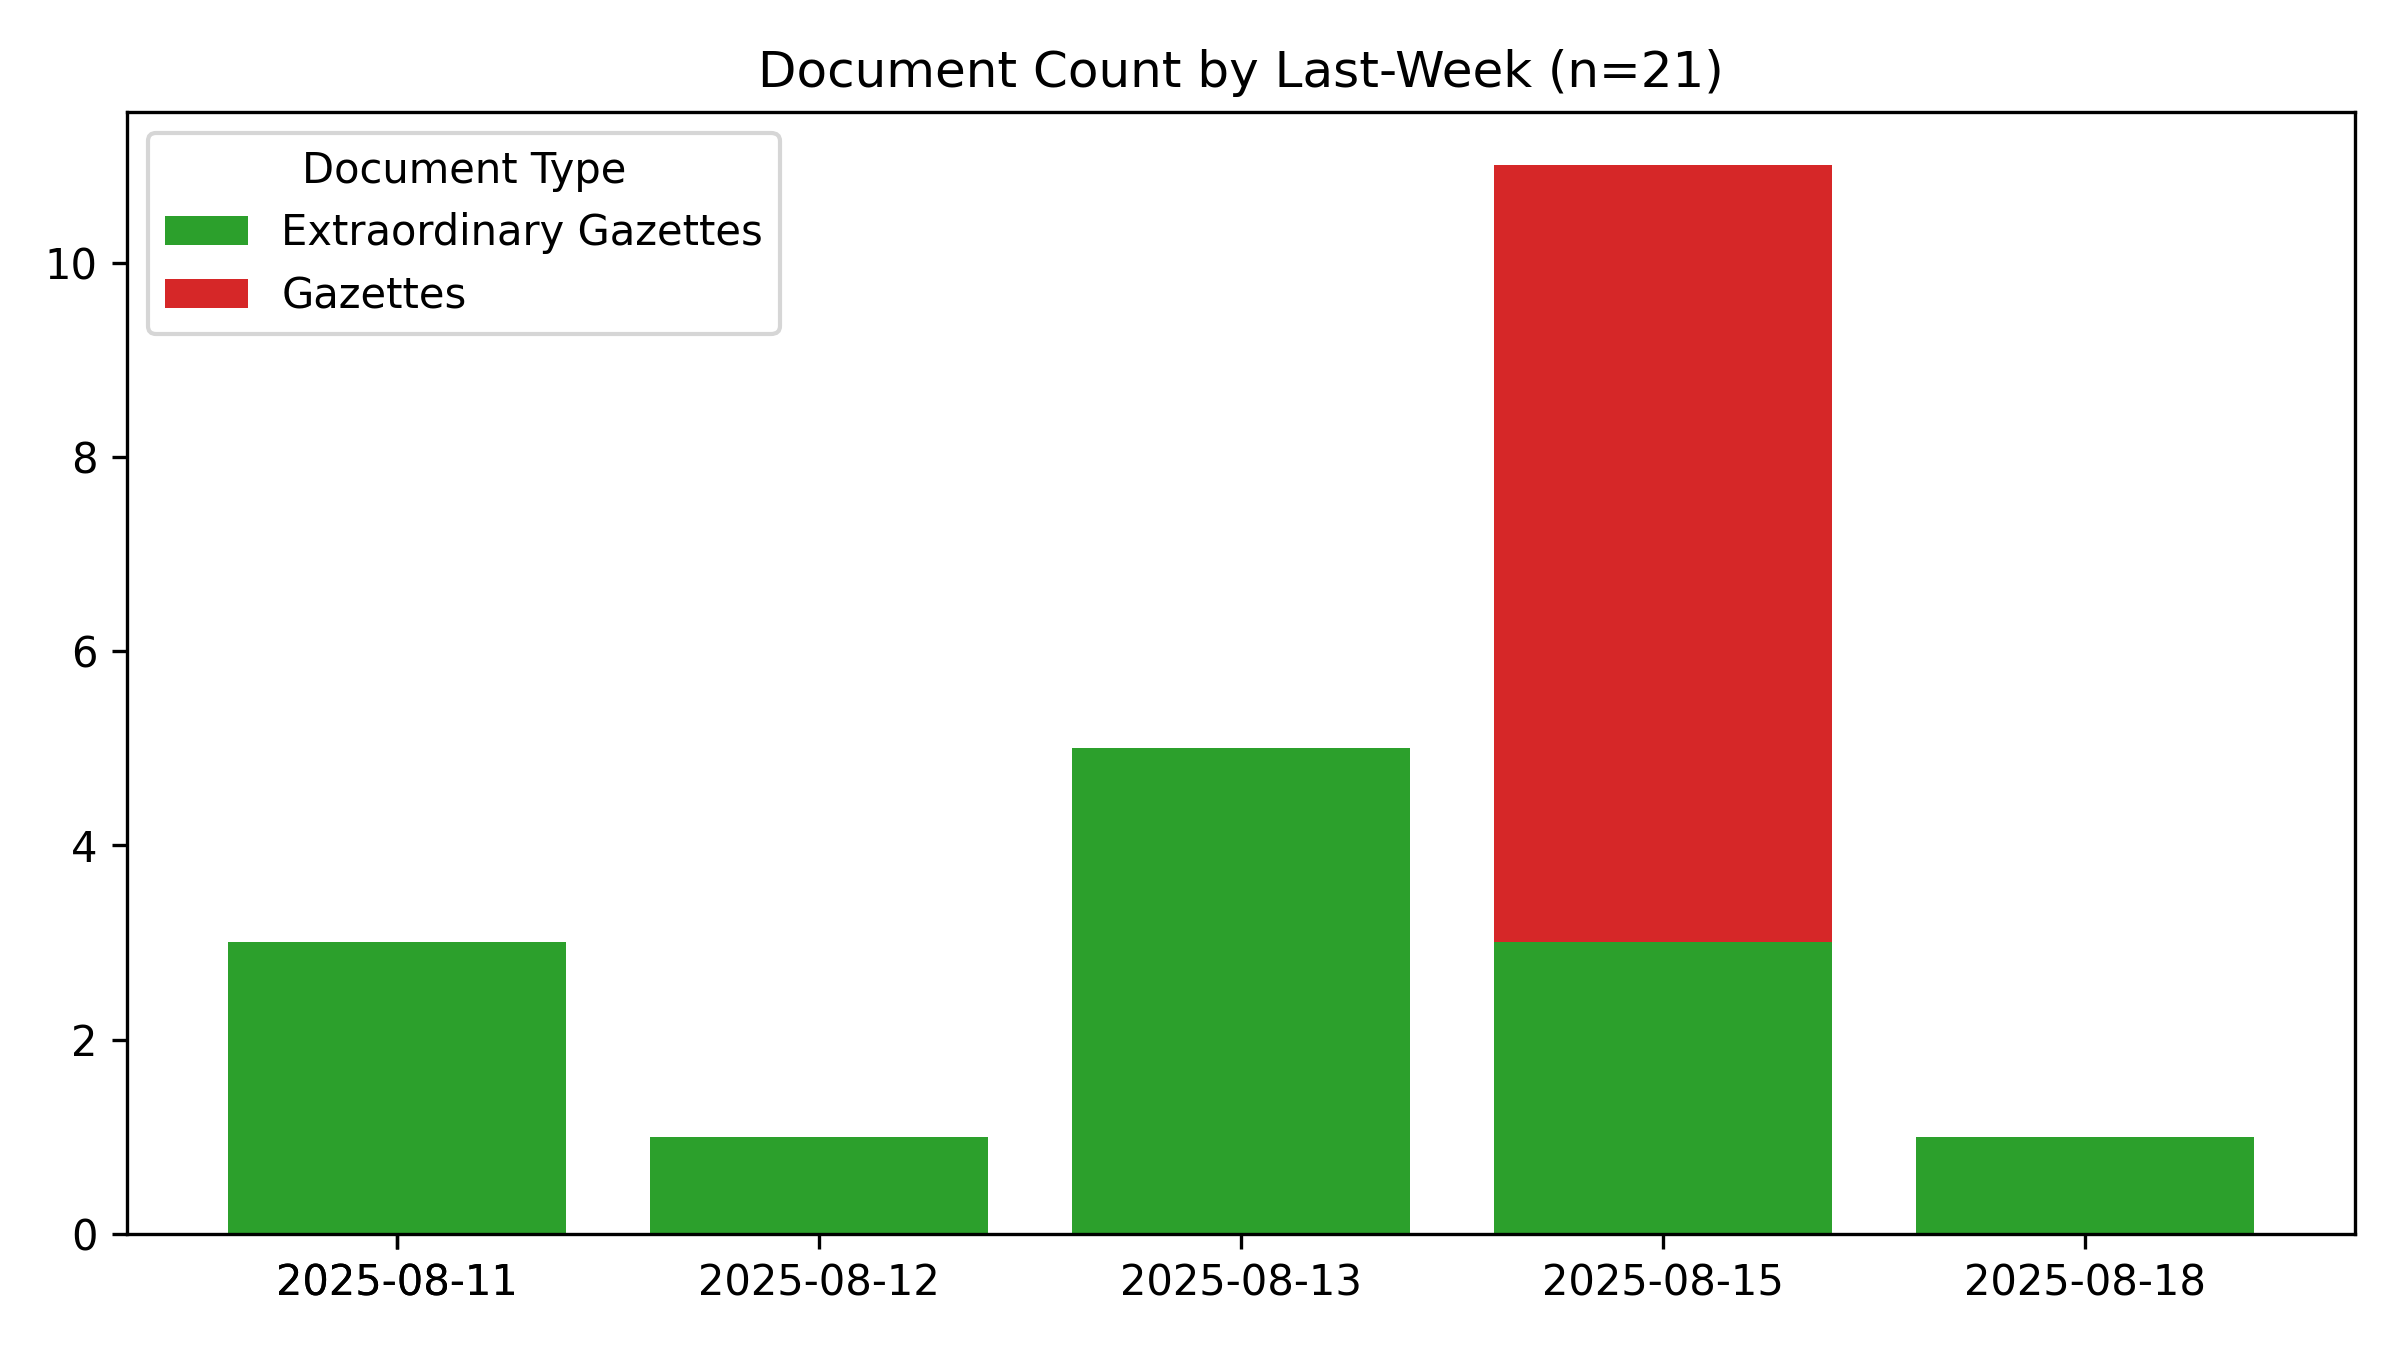
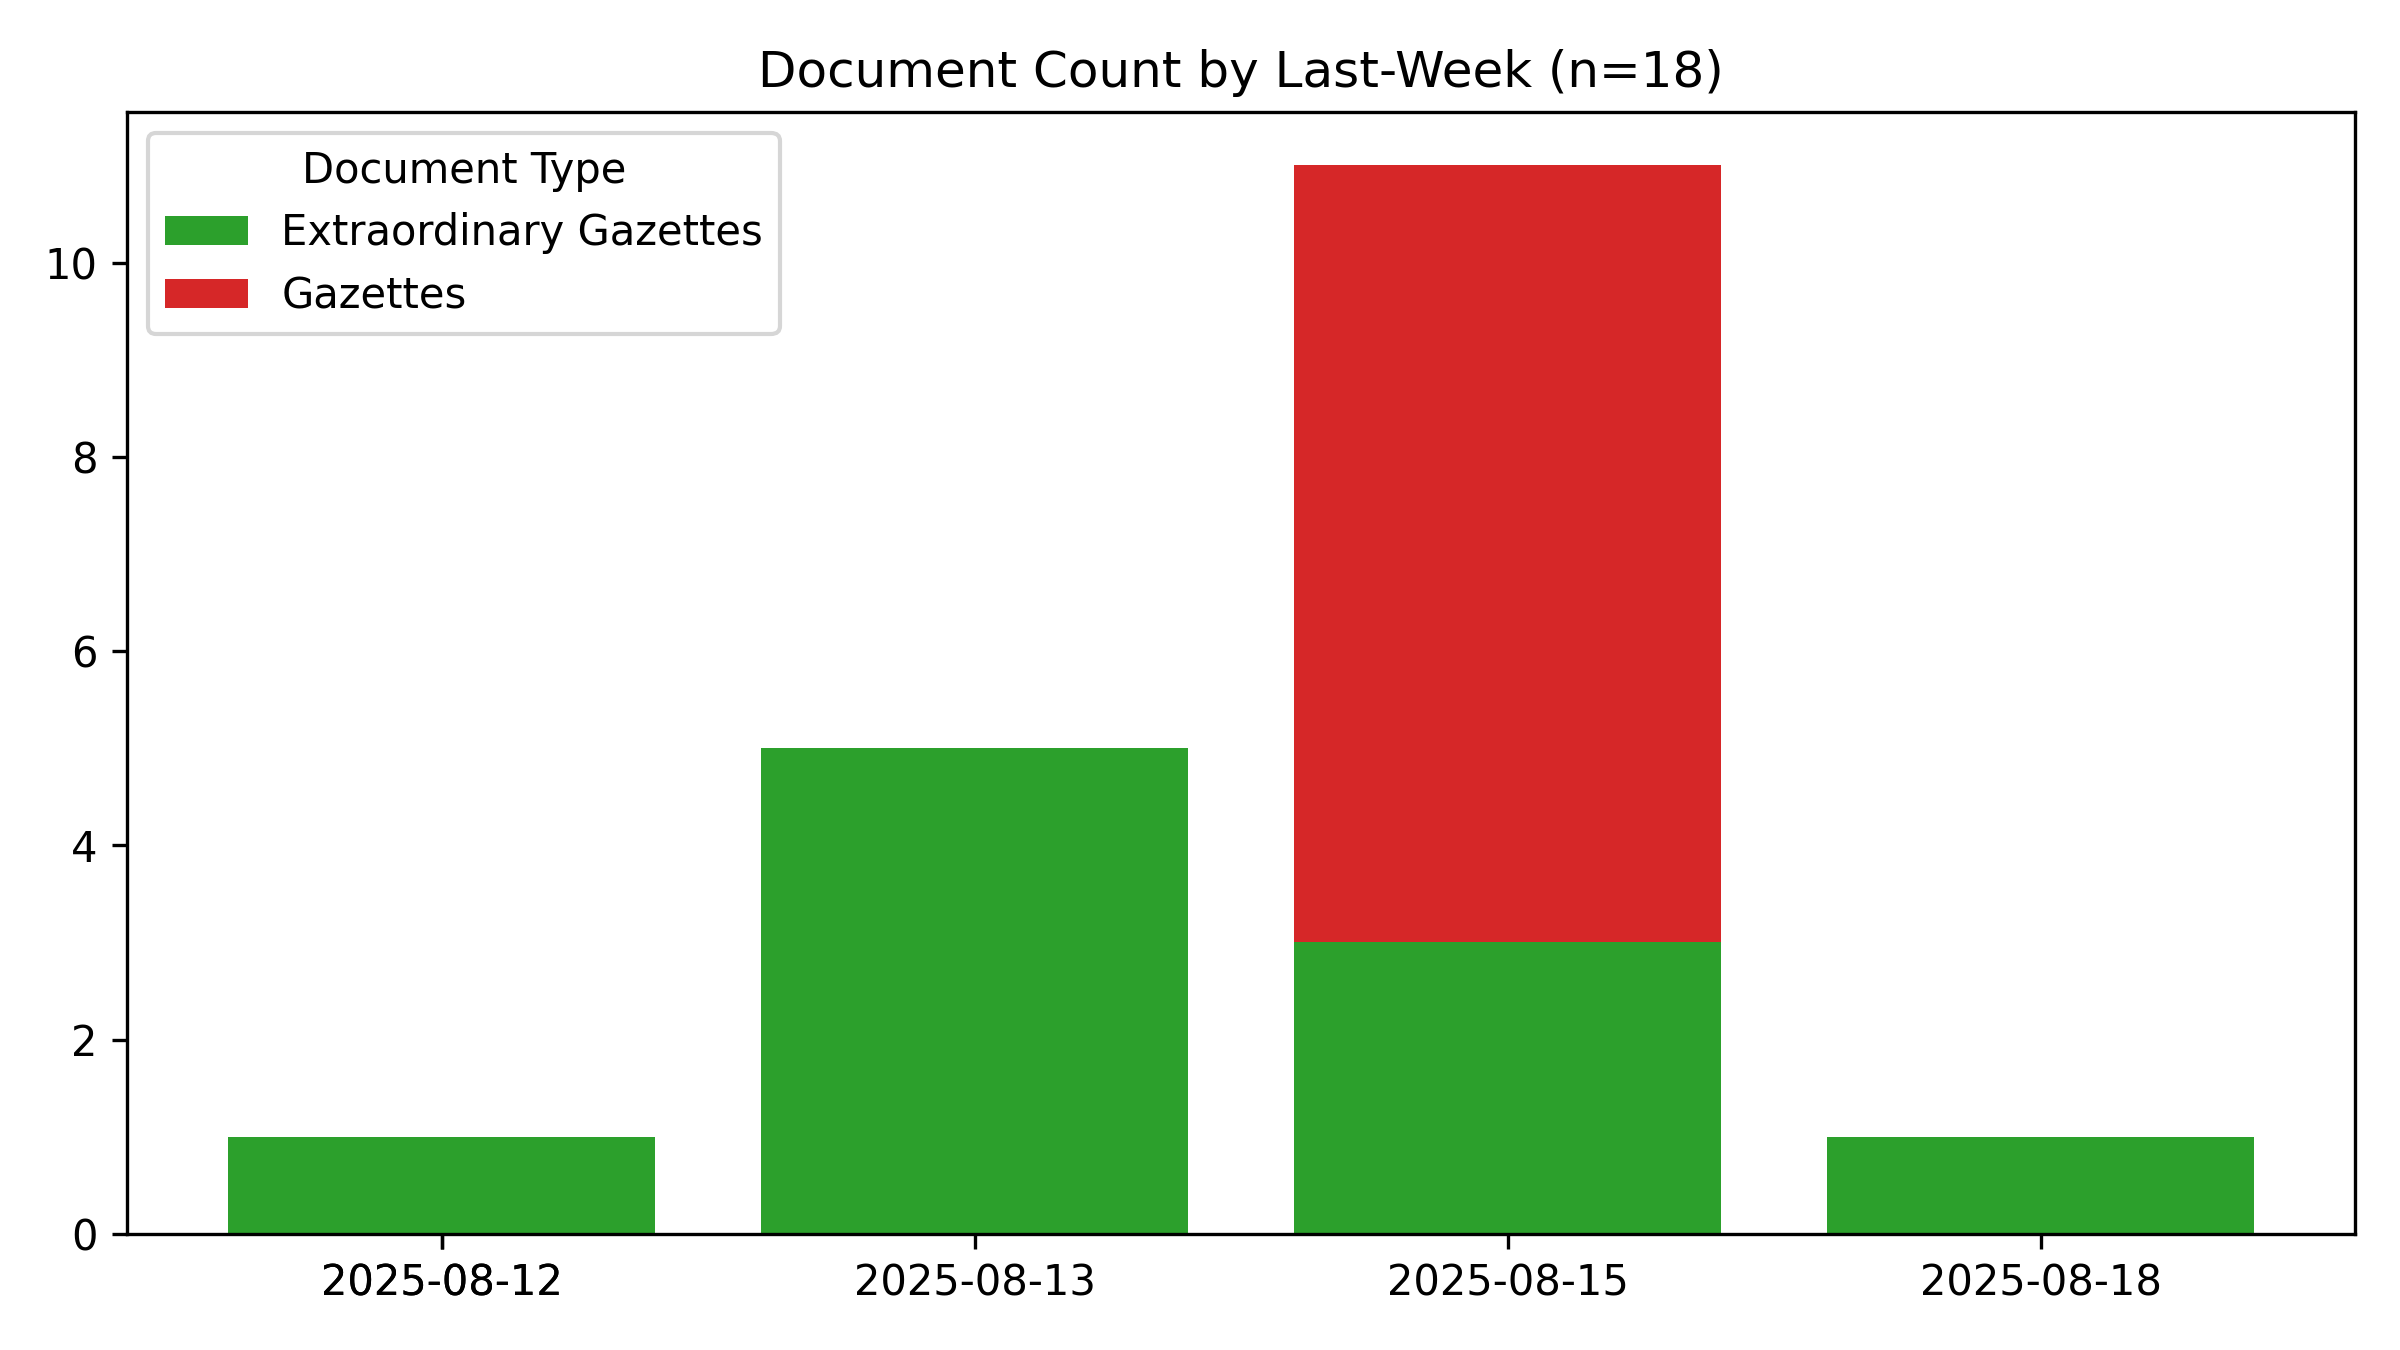
🤖 [build_readme.yml] 2025-08-19-0016

Changed region(s): [[0.0938, 0.1244, 0.8125, 0.9644], [0.8125, 0.9333, 0.9375, 0.9644], [0.6875, 0.0311, 0.7188, 0.0622]]

diff --git a/README.md b/README.md
@@ -1,6 +1,6 @@
 # #SriLanka 🇱🇰 - Legal Documents #Dataset
 
-*Last Updated **2025-08-19 05:13:44**.*
+*Last Updated **2025-08-19 05:45:57**.*
 
 **44,346** documents (24.3 MB), from 1981-01-22 to 2025-08-18.
 
@@ -54,7 +54,7 @@ For best results, use a desktop browser.
 
 ## Recent Documents (Published during the last 7 days)
 
-**21** Documents
+**18** Documents
 
 - 🚨 [2025-08-18] [Sri Lanka Customs- Rates of Exchange with effect from 18.08.2025 to 24.05.2025](https://github.com/nuuuwan/lk_legal_docs_data/tree/data_2020s/data/extra-gazettes/2025/2450-01)
 - 🚨 [2025-08-15] [2449/63](https://github.com/nuuuwan/lk_legal_docs_data/tree/data_2020s/data/extra-gazettes/2025/2449-63)
@@ -74,6 +74,3 @@ For best results, use a desktop browser.
 - 🚨 [2025-08-13] [2449/15](https://github.com/nuuuwan/lk_legal_docs_data/tree/data_2020s/data/extra-gazettes/2025/2449-15)
 - 🚨 [2025-08-13] [Dept. of Local Government- Southern Province - Notice Under Section 66 C (1) Elected Chairman and Vice Chairman Weligama Pradeshiya Sabha](https://github.com/nuuuwan/lk_legal_docs_data/tree/data_2020s/data/extra-gazettes/2025/2449-14)
 - 🚨 [2025-08-12] [2449/12](https://github.com/nuuuwan/lk_legal_docs_data/tree/data_2020s/data/extra-gazettes/2025/2449-12)
-- 🚨 [2025-08-11] [Dept. of L.G. Central Province - Notice Under Section 66 C (1) Elected Deputy Chairman of a Ukuwela Pradeshiya Sabha](https://github.com/nuuuwan/lk_legal_docs_data/tree/data_2020s/data/extra-gazettes/2025/2449-03)
-- 🚨 [2025-08-11] [2449/02](https://github.com/nuuuwan/lk_legal_docs_data/tree/data_2020s/data/extra-gazettes/2025/2449-02)
-- 🚨 [2025-08-11] [Sri Lanka Customs - Rates of Exchange with effect from 11.08.2025 to 17.08.2025](https://github.com/nuuuwan/lk_legal_docs_data/tree/data_2020s/data/extra-gazettes/2025/2449-01)
